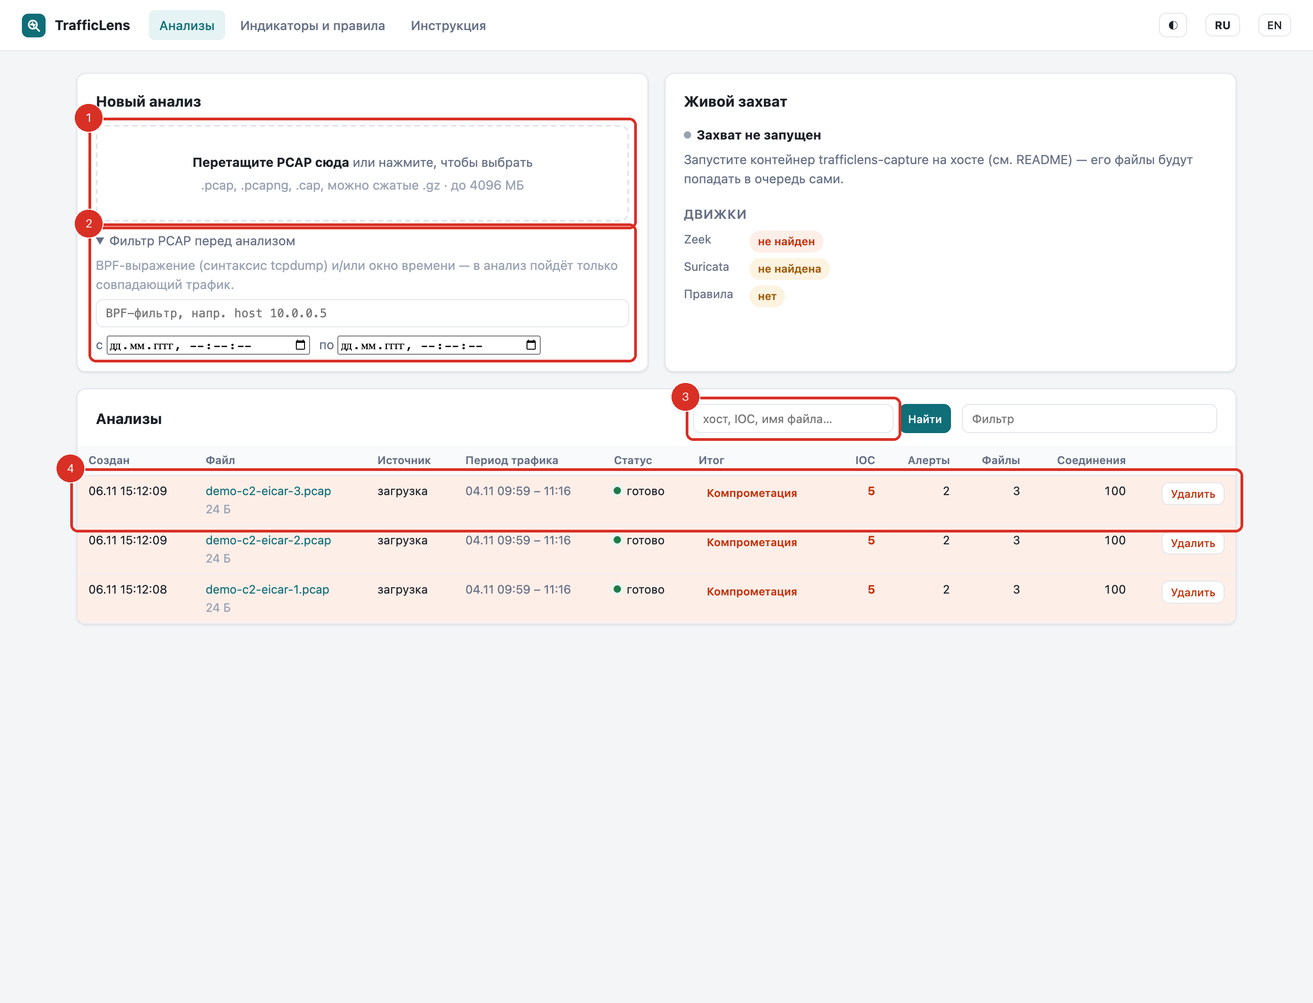
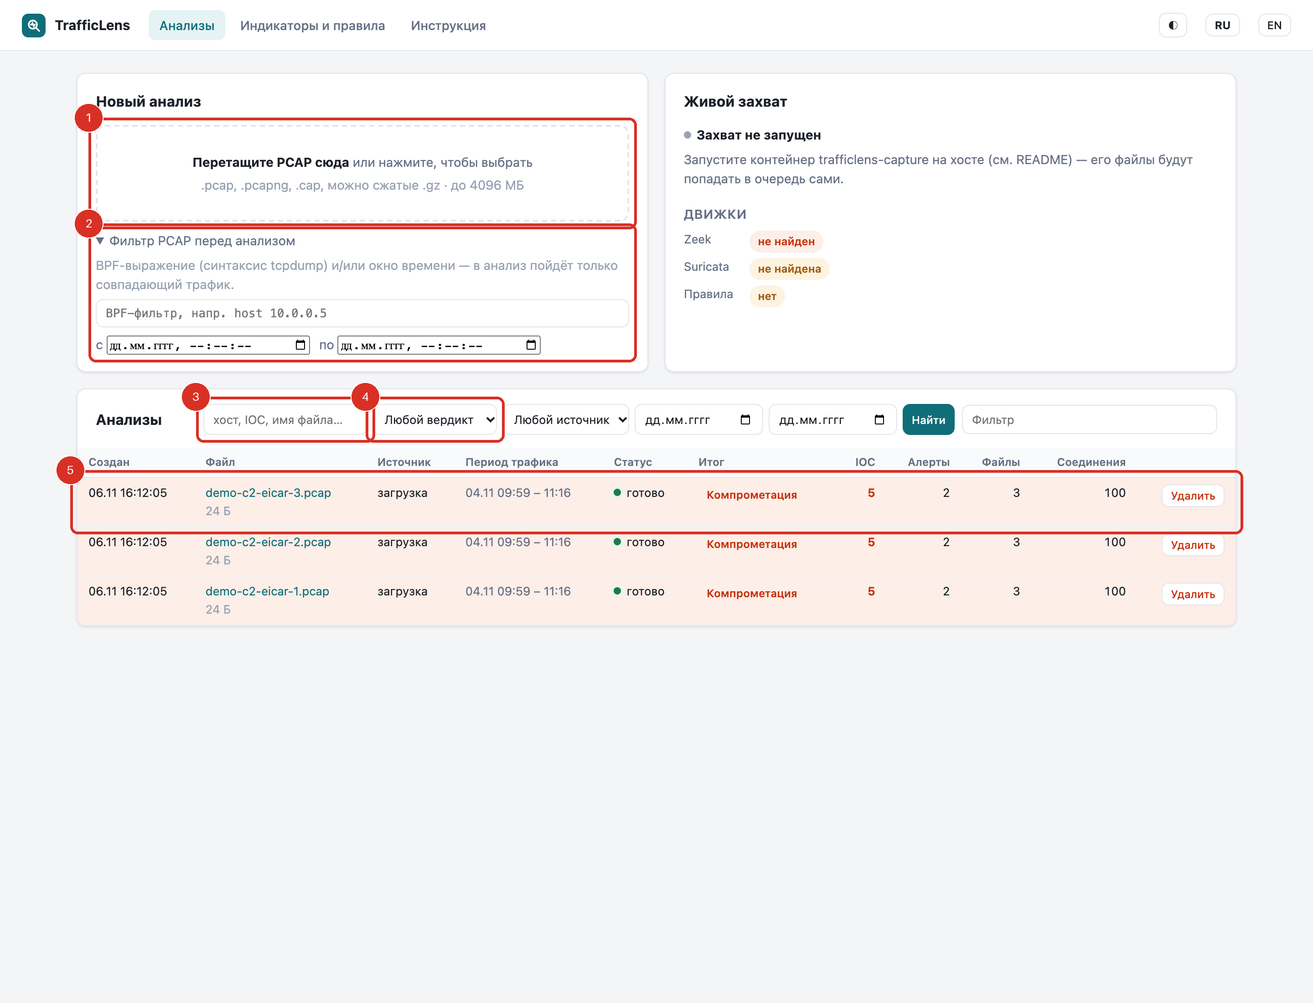
docs: инструкция актуализирована — карточка хоста, фильтры задач
Новый раздел 5 «Карточка хоста» (RU/EN) со скриншотом: риск-скор,
KPI, кнопки ↗, таймлайн, контакты. Раздел 2 дополнен фильтрами
вердикта/источника/дат. Скриншоты пересняты, файлы 05-08 → 06-09.

diff --git a/trafficlens/templates/_help_ru.html b/trafficlens/templates/_help_ru.html
@@ -18,6 +18,7 @@
   <li>Зона загрузки: перетащите PCAP/PCAPNG-файл или нажмите для выбора. Анализ запускается автоматически.</li>
   <li>Фильтр PCAP (раскрывается под зоной загрузки): BPF-выражение (синтаксис tcpdump) и/или окно времени — в анализ пойдёт только нужный трафик, что сильно ускоряет разбор больших дампов.</li>
   <li>Поиск по задачам: имя файла, а для завершённых анализов — также хосты, IOC, переданные файлы и DNS-имена из отчёта.</li>
+  <li>Фильтры списка: вердикт (критичный/подозрительный/чистый), источник (загрузка/захват) и диапазон дат создания. Комбинируются с поиском; сброс — ссылкой «Сбросить» рядом со счётчиком найденного.</li>
   <li>Список задач с вердиктами: <b>критичный</b> / <b>подозрительный</b> / <b>чистый</b>. Клик по строке открывает отчёт.</li>
 </ol>
 </section>
@@ -38,14 +39,27 @@
 <ol>
   <li><b>Приоритетные хосты</b> — локальные хосты, ранжированные по суммарному риску. Начинайте с верхних. Кнопка CSV выгружает таблицу (открывается в Excel/LibreOffice).</li>
   <li>Основания риска с бейджами уверенности и затронутыми индикаторами.</li>
-  <li>Значок ▸ рядом с адресом открывает <b>карточку хоста</b>: таймлайн всех событий, контакты, файлы.</li>
+  <li>Значок ▸ рядом с адресом открывает <b>карточку хоста</b> — подробнее в разделе 5.</li>
   <li>Панель MITRE ATT&CK: тактики и техники, ссылки ведут на attack.mitre.org с описанием каждой техники.</li>
 </ol>
 </section>
 
 <section>
-<h2>5. Индикаторы компрометации (вкладка IOC)</h2>
-<img src="/static/help/ru/05-report-ioc.png" alt="Вкладка IOC">
+<h2>5. Карточка хоста</h2>
+<img src="/static/help/ru/05-host.png" alt="Карточка хоста">
+<p>Карточка собирает всё, что известно об одном адресе (локальном или внешнем), из уже разобранных логов задачи.</p>
+<ol>
+  <li>Риск-скор и основания с бейджами уверенности — чем выше, тем раньше стоит разбирать хост.</li>
+  <li>KPI: соединения, отправлено/получено, IOC-совпадения, переданные файлы.</li>
+  <li>Кнопки ↗ — переход в соответствующую вкладку отчёта с уже применённым фильтром по этому адресу или индикатору (IOC, контакты, файлы): не нужно искать тот же хост в таблицах вручную.</li>
+  <li>Таймлайн всех событий с участием хоста по времени: DNS, TLS, HTTP, сигнатуры, notice, маячки, выгрузки, cleartext, невалидные сертификаты. Строки с IOC подсвечены.</li>
+  <li>Контакты: с кем и сколько общался хост, порты; IOC-адреса помечены. Ниже — таблица переданных файлов с хэшами.</li>
+</ol>
+</section>
+
+<section>
+<h2>6. Индикаторы компрометации (вкладка IOC)</h2>
+<img src="/static/help/ru/06-report-ioc.png" alt="Вкладка IOC">
 <ol>
   <li>Все совпадения с базами IOC: тип, значение, источники, confidence, контексты наблюдения, хосты.</li>
   <li>Фильтр по таблице (подстрока). Такие же фильтры есть у большинства таблиц отчёта.</li>
@@ -56,8 +70,8 @@
 </section>
 
 <section>
-<h2>6. Граф сетевых обращений</h2>
-<img src="/static/help/ru/06-report-graph.png" alt="Граф">
+<h2>7. Граф сетевых обращений</h2>
+<img src="/static/help/ru/07-report-graph.png" alt="Граф">
 <ol>
   <li>Локальные хосты слева, внешние адреса справа; красным выделены адреса из IOC. Толщина линии зависит от объёма трафика.</li>
   <li>Масштаб: колесо мыши (зум к курсору) или кнопки −/⟲/+; фон перетаскивается для прокрутки, узлы — для разведения линий.</li>
@@ -65,8 +79,8 @@
 </section>
 
 <section>
-<h2>7. Цепочка компрометации</h2>
-<img src="/static/help/ru/07-chain.png" alt="Цепочка компрометации">
+<h2>8. Цепочка компрометации</h2>
+<img src="/static/help/ru/08-chain.png" alt="Цепочка компрометации">
 <ol>
   <li>Находки, разложенные по этапам атаки MITRE ATT&CK в хронологии: разведка → первичный доступ → … → эксфильтрация → воздействие. Хосты, замеченные на нескольких этапах, собраны отдельным блоком.</li>
   <li><b>Цепочки для тикета</b>: готовые строки «хост → индикатор → адрес:порт → файл → хэш → источники IOC» с кнопкой копирования — вставляйте в тикет или письмо как есть.</li>
@@ -74,8 +88,8 @@
 </section>
 
 <section>
-<h2>8. Индикаторы и правила</h2>
-<img src="/static/help/ru/08-iocs.png" alt="Индикаторы и правила">
+<h2>9. Индикаторы и правила</h2>
+<img src="/static/help/ru/09-iocs.png" alt="Индикаторы и правила">
 <ol>
   <li>Обновление баз IOC (abuse.ch URLhaus/ThreatFox/Feodo/MalwareBazaar, MISP, OpenCTI) и правил Suricata (ET Open) одной кнопкой. Расписание автоматического обновления задаётся в конфиге.</li>
   <li>Дополнительные источники правил: свои URL наборов (ET Pro, abuse.ch SSLBL, внутренние .rules).</li>

diff --git a/trafficlens/templates/_help_en.html b/trafficlens/templates/_help_en.html
@@ -18,6 +18,7 @@
   <li>Upload zone: drag a PCAP/PCAPNG file here or click to browse. Analysis starts automatically.</li>
   <li>PCAP filter (expands below the upload zone): a BPF expression (tcpdump syntax) and/or a time window — only matching traffic is analyzed, which speeds up large captures considerably.</li>
   <li>Job search: matches the file name and, for finished analyses, also hosts, IOCs, transferred files and DNS names from the report.</li>
+  <li>Job list filters: verdict (critical/suspicious/clean), source (upload/capture) and creation date range. They combine with the search; the “Reset” link next to the match counter clears them.</li>
   <li>Job list with verdicts: <b>critical</b> / <b>suspicious</b> / <b>clean</b>. Click a row to open the report.</li>
 </ol>
 </section>
@@ -38,14 +39,27 @@
 <ol>
   <li><b>Priority hosts</b> — local hosts ranked by total risk. Start at the top. The CSV button exports the table (opens in Excel/LibreOffice).</li>
   <li>Risk reasons with confidence badges and the indicators involved.</li>
-  <li>The ▸ icon next to an address opens its <b>host card</b>: a timeline of all events, contacts, files.</li>
+  <li>The ▸ icon next to an address opens its <b>host card</b> — see section 5.</li>
   <li>MITRE ATT&CK panel: tactics and techniques; links lead to attack.mitre.org with a description of each technique.</li>
 </ol>
 </section>
 
 <section>
-<h2>5. Indicators of compromise (IOC tab)</h2>
-<img src="/static/help/en/05-report-ioc.png" alt="IOC tab">
+<h2>5. Host card</h2>
+<img src="/static/help/en/05-host.png" alt="Host card">
+<p>The card gathers everything known about a single address (local or external) from the job's already parsed logs.</p>
+<ol>
+  <li>Risk score and its reasons with confidence badges — the higher, the sooner the host deserves attention.</li>
+  <li>KPIs: connections, sent/received bytes, IOC hits, transferred files.</li>
+  <li>The ↗ buttons jump to the matching report tab with the filter already applied for this address or indicator (IOCs, contacts, files) — no need to look up the same host in the tables by hand.</li>
+  <li>Timeline of all events involving the host: DNS, TLS, HTTP, signatures, notices, beacons, uploads, cleartext, invalid certificates. Rows with IOCs are highlighted.</li>
+  <li>Contacts: who the host talked to, volumes, ports; IOC addresses are flagged. Below — the transferred files table with hashes.</li>
+</ol>
+</section>
+
+<section>
+<h2>6. Indicators of compromise (IOC tab)</h2>
+<img src="/static/help/en/06-report-ioc.png" alt="IOC tab">
 <ol>
   <li>All matches against IOC feeds: type, value, sources, confidence, observation contexts, hosts.</li>
   <li>Table filter (substring). Most report tables have the same filter.</li>
@@ -56,8 +70,8 @@
 </section>
 
 <section>
-<h2>6. Network connections graph</h2>
-<img src="/static/help/en/06-report-graph.png" alt="Graph">
+<h2>7. Network connections graph</h2>
+<img src="/static/help/en/07-report-graph.png" alt="Graph">
 <ol>
   <li>Local hosts on the left, external addresses on the right; IOC addresses are highlighted in red. Edge width depends on traffic volume.</li>
   <li>Zoom: mouse wheel (zooms to the cursor) or the −/⟲/+ buttons; drag the background to pan, drag nodes to untangle edges.</li>
@@ -65,8 +79,8 @@
 </section>
 
 <section>
-<h2>7. Compromise chain</h2>
-<img src="/static/help/en/07-chain.png" alt="Compromise chain">
+<h2>8. Compromise chain</h2>
+<img src="/static/help/en/08-chain.png" alt="Compromise chain">
 <ol>
   <li>Findings laid out across MITRE ATT&CK attack stages in chronological order: recon → initial access → … → exfiltration → impact. Hosts seen on multiple stages are grouped in a separate block.</li>
   <li><b>Ticket-ready chains</b>: prepared lines “host → indicator → address:port → file → hash → IOC sources” with a copy button — paste them into a ticket or an e-mail as is.</li>
@@ -74,8 +88,8 @@
 </section>
 
 <section>
-<h2>8. Indicators and rules</h2>
-<img src="/static/help/en/08-iocs.png" alt="Indicators and rules">
+<h2>9. Indicators and rules</h2>
+<img src="/static/help/en/09-iocs.png" alt="Indicators and rules">
 <ol>
   <li>Update IOC feeds (abuse.ch URLhaus/ThreatFox/Feodo/MalwareBazaar, MISP, OpenCTI) and Suricata rules (ET Open) with one button. The automatic update schedule is set in the config.</li>
   <li>Additional rule sources: your own rule-set URLs (ET Pro, abuse.ch SSLBL, internal .rules).</li>

diff --git a/tools/make_guide_shots.py b/tools/make_guide_shots.py
@@ -40,23 +40,26 @@ SHOTS = [
     ("01-login", "/login", None, "#username", None,
      [(1, "#username"), (2, "#password"), (3, "button[type=submit]")]),
     ("02-index", "/", "var d=document.querySelector('.pcap-filter'); if(d) d.open=true;", "#jobs-table", None,
-     [(1, "#drop"), (2, ".pcap-filter"), (3, "input[name=q]"), (4, "#jobs-table tbody tr")]),
+     [(1, "#drop"), (2, ".pcap-filter"), (3, "input[name=q]"), (4, "select[name=verdict]"),
+      (5, "#jobs-table tbody tr")]),
     ("03-report-top", "/jobs/{job}", None, ".verdict", None,
      [(1, ".verdict"), (2, ".actions"), (3, ".kpis")]),
     ("04-report-hosts", "/jobs/{job}", None, "#t-hosts", "#t-hosts",
      [(1, "closest:.panel|#t-hosts"), (2, "#t-hosts tbody tr"),
       (3, "closest:.panel|a[href*='attack.mitre.org/tactics']")]),
-    ("05-report-ioc", "/jobs/{job}#ioc", None, "#t-ioc tbody tr", None,
+    ("05-host", "/jobs/{job}/host/192.168.1.50", None, "#t-tl", None,
+     [(1, ".verdict"), (2, ".kpis"), (3, "a[href*='?flt=']"), (4, "#t-tl"), (5, "#t-ct")]),
+    ("06-report-ioc", "/jobs/{job}#ioc", None, "#t-ioc tbody tr", None,
      [(1, "#t-ioc"), (2, "[data-filter=t-ioc]"), (3, "a[href$='export/iocs.csv']"), (4, "#t-ioc .markbtn")]),
-    ("06-report-graph", "/jobs/{job}#graph", None, ".netgraph .gnode", None,
+    ("07-report-graph", "/jobs/{job}#graph", None, ".netgraph .gnode", None,
      [(1, ".netgraph"), (2, ".gzoom")]),
-    ("07-chain", "/jobs/{job}/chain", None, ".chain-tickets", ".chain-tickets",
+    ("08-chain", "/jobs/{job}/chain", None, ".chain-tickets", ".chain-tickets",
      [(1, ".chain"), (2, ".chain-tickets")]),
-    ("08-iocs", "/iocs", None, "[data-action=ioc-update]", None,
+    ("09-iocs", "/iocs", None, "[data-action=ioc-update]", None,
      [(1, "button[data-action=ioc-update].primary"), (2, "button[data-action=rules-update]"),
       (3, "#rulesrc-form"), (4, "#custom-form")]),
 ]
-FULL_PAGE = {"08-iocs"}
+FULL_PAGE = {"05-host", "09-iocs"}
 
 COLLECT_JS = """(sels) => {
   const find = (sel) => {

diff --git a/tests/test_core.py b/tests/test_core.py
@@ -916,7 +916,7 @@ def test_help_page(env):
     assert "Administrator guide" in r.text and "/static/help/en/01-login.png" in r.text
     assert "Guide" in c.get("/?lang=en").text
     shots = ("01-login", "02-index", "03-report-top", "04-report-hosts",
-             "05-report-ioc", "06-report-graph", "07-chain", "08-iocs")
+             "05-host", "06-report-ioc", "07-report-graph", "08-chain", "09-iocs")
     for lang in ("ru", "en"):
         for n in shots:
             p = STATIC / "help" / lang / f"{n}.png"

diff --git a/CHANGELOG.md b/CHANGELOG.md
@@ -4,7 +4,7 @@
 
 - Фильтры задач на главной: рядом с поиском — выбор вердикта (критичный/подозрительный/чистый), источника (загрузка/захват) и диапазона дат создания; комбинируются с текстовым поиском. Выбранные значения сохраняются в форме, сброс — одной ссылкой.
 - Переходы из карточки хоста в отчёт: кнопки ↗ у адреса, IOC, контактов и файлов открывают соответствующую вкладку отчёта с уже применённым фильтром (`?flt=…#вкладка`) — не нужно вручную искать тот же хост в таблицах.
-- Встроенная инструкция администратора: страница «Инструкция» (`/help`, ссылка в шапке) — пошаговый разбор работы с инструментом (вход, загрузка с PCAP-фильтром, вердикт, приоритетные хосты, IOC, граф, цепочка, обновление баз) с аннотированными скриншотами: номерные указатели на элементах интерфейса соответствуют пунктам подписей. Русская и английская версии со скриншотами на своём языке, переключаются языком интерфейса. Скриншоты пересобираются скриптом `tools/make_guide_shots.py` (Playwright + системный Chrome, демо-данные из тестовой фикстуры) — при изменении интерфейса инструкцию легко переснять.
+- Встроенная инструкция администратора: страница «Инструкция» (`/help`, ссылка в шапке) — пошаговый разбор работы с инструментом (вход, загрузка с PCAP-фильтром, поиск и фильтры задач, вердикт, приоритетные хосты, карточка хоста, IOC, граф, цепочка, обновление баз) с аннотированными скриншотами: номерные указатели на элементах интерфейса соответствуют пунктам подписей. Русская и английская версии со скриншотами на своём языке, переключаются языком интерфейса. Скриншоты пересобираются скриптом `tools/make_guide_shots.py` (Playwright + системный Chrome, демо-данные из тестовой фикстуры) — при изменении интерфейса инструкцию легко переснять.
 - Уверенность находок: бейджи **«Факт»** (прямое наблюдение в логах — совпадение с IOC, срабатывание сигнатуры, перехваченный файл или учётные данные, отказ валидации TLS) и **«Эвристика»** (статистическая или пороговая оценка — маячки, крупные выгрузки, нестандартные порты, подозрительные DNS-имена; возможны ложные срабатывания). Показаны у каждой причины вердикта на сводке, в основаниях риска приоритетных хостов и карточки хоста, а также в заголовках разделов отчёта. Подсказка по наведению объясняет разницу.
 - Экспорт находок в CSV: кнопки «CSV» на сводке («Приоритетные хосты») и на вкладках «IOC», «Сигнатуры», «Файлы». Файлы в UTF-8 с BOM — открываются в Excel/LibreOffice двойным кликом без выбора кодировки; значения (важность, направления, причины риска, статусы разметки) локализуются по языку интерфейса. Полный отчёт в JSON по-прежнему доступен кнопкой «JSON» в шапке.
 - Граф сетевых обращений: масштабирование колесом мыши и кнопками +/−/сброс (зум к курсору), прокрутка области перетаскиванием фона; узлы по-прежнему перетаскиваются.
